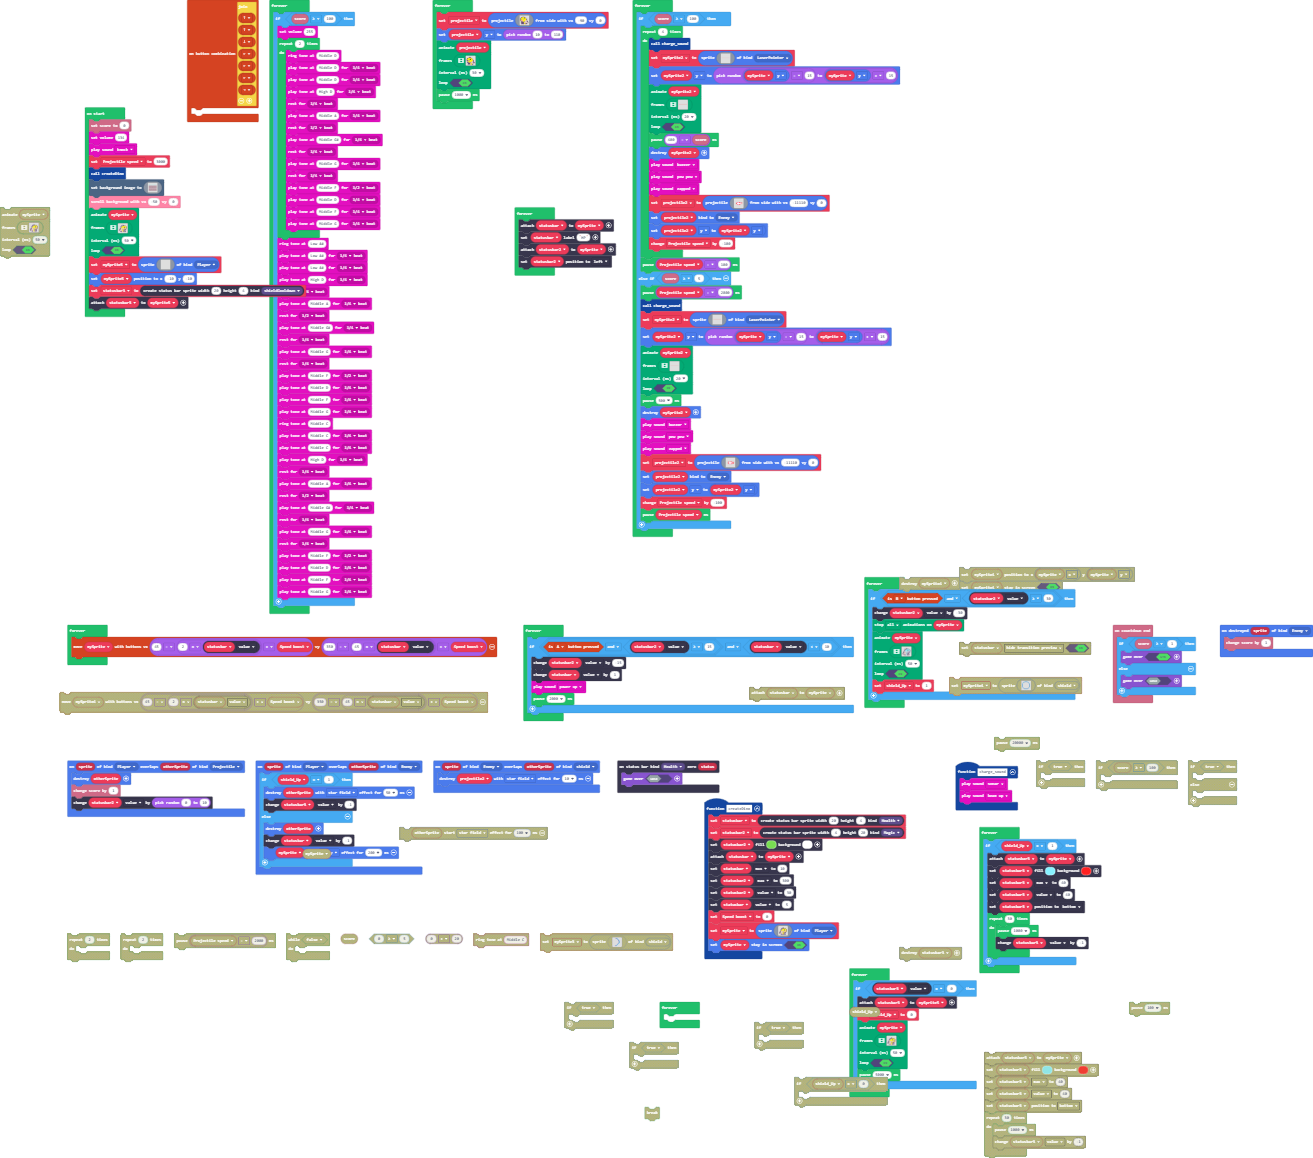
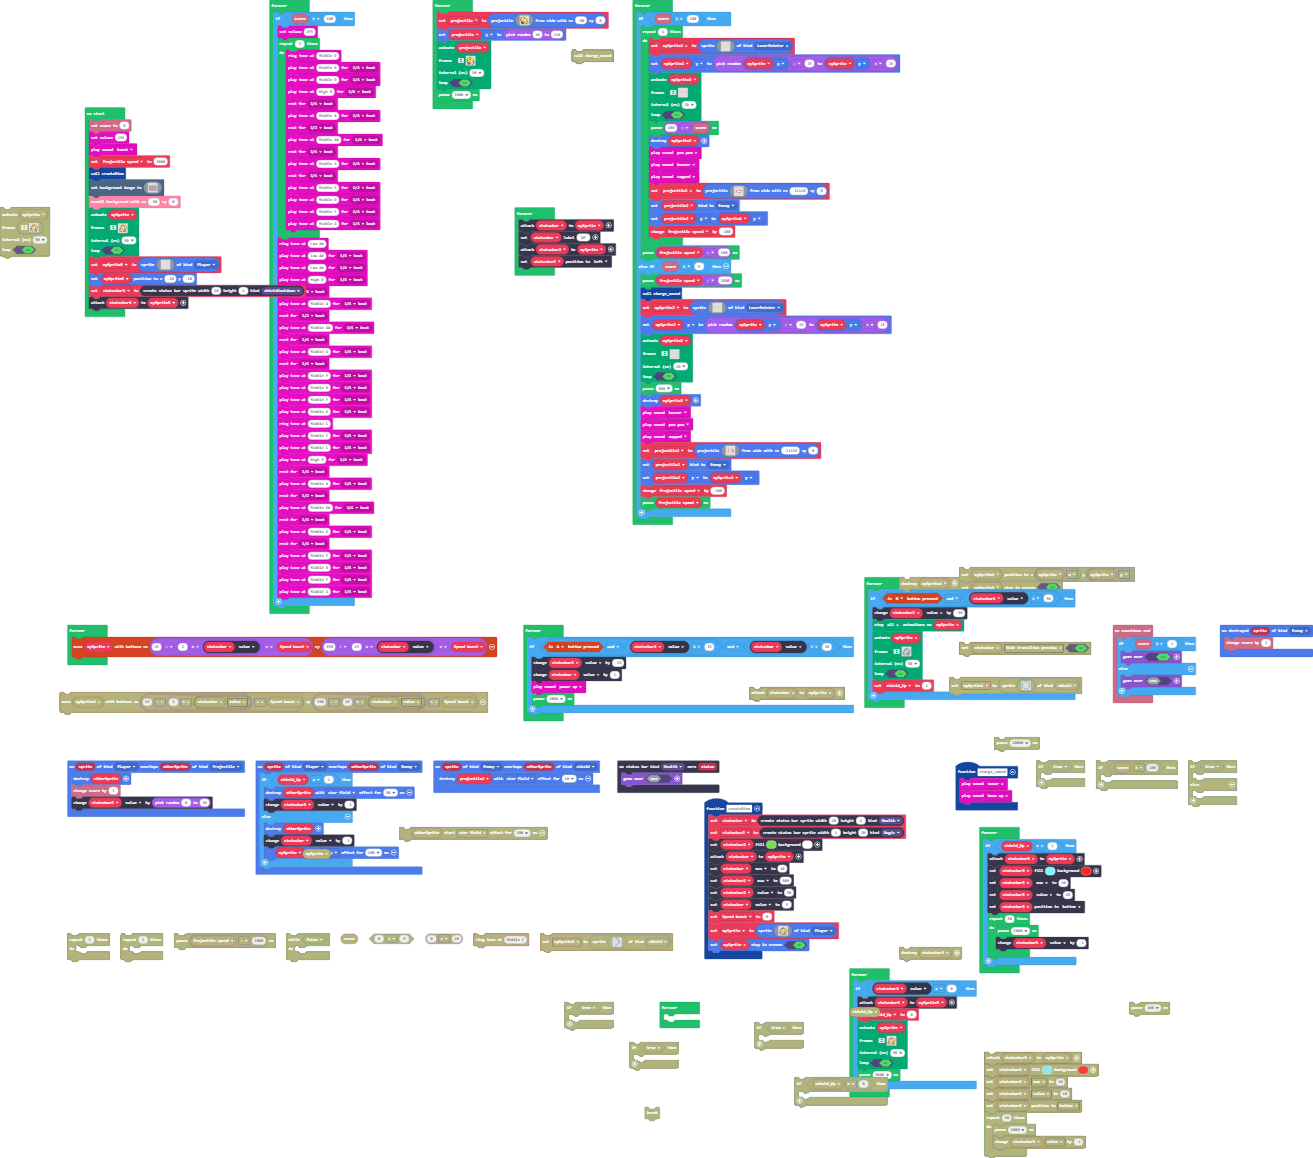
Update main.blocks, main.ts

Changed region(s): [[0.4372, 0.0311, 0.687, 0.4663], [0.1249, 0.0, 0.2186, 0.1244]]

diff --git a/main.ts b/main.ts
@@ -5,9 +5,6 @@ namespace SpriteKind {
 namespace StatusBarKind {
     export const shieldCooldown = StatusBarKind.create()
 }
-controller.combos.attachCombo("" + controller.combos.idToString(controller.combos.ID.up) + controller.combos.idToString(controller.combos.ID.up) + controller.combos.idToString(controller.combos.ID.down) + controller.combos.idToString(controller.combos.ID.left) + controller.combos.idToString(controller.combos.ID.left) + controller.combos.idToString(controller.combos.ID.left) + controller.combos.idToString(controller.combos.ID.right), function () {
-	
-})
 function charge_sound () {
     music.sonar.play()
     music.beamUp.play()
@@ -430,7 +427,6 @@ forever(function () {
 forever(function () {
     if (info.score() >= 100) {
         for (let index = 0; index < 4; index++) {
-            charge_sound()
             mySprite2 = sprites.create(img`
                 2 2 2 2 2 2 2 2 2 2 2 2 2 2 2 2 2 2 2 2 2 2 2 2 2 2 2 2 2 2 2 2 2 2 2 2 2 2 2 2 2 2 2 2 2 2 2 2 2 2 2 2 2 2 2 2 2 2 2 2 2 2 2 2 2 2 2 2 2 2 2 2 2 2 2 2 2 2 2 2 2 2 2 2 2 2 2 2 2 2 2 2 2 2 2 2 2 2 2 2 2 2 2 2 2 2 2 2 2 2 2 2 2 2 2 2 2 2 2 2 2 2 2 2 2 2 2 2 2 2 2 2 2 2 2 2 2 2 2 2 2 2 2 2 2 2 2 2 2 2 2 2 2 2 2 2 2 2 2 2 
                 `, SpriteKind.LaserPointer)
@@ -451,8 +447,8 @@ forever(function () {
             )
             pause(400 - info.score())
             mySprite2.destroy()
-            music.buzzer.play()
             music.pewPew.play()
+            music.buzzer.play()
             music.zapped.play()
             projectile2 = sprites.createProjectileFromSide(img`
                 . . . . . . . . . . . . . . . . 
